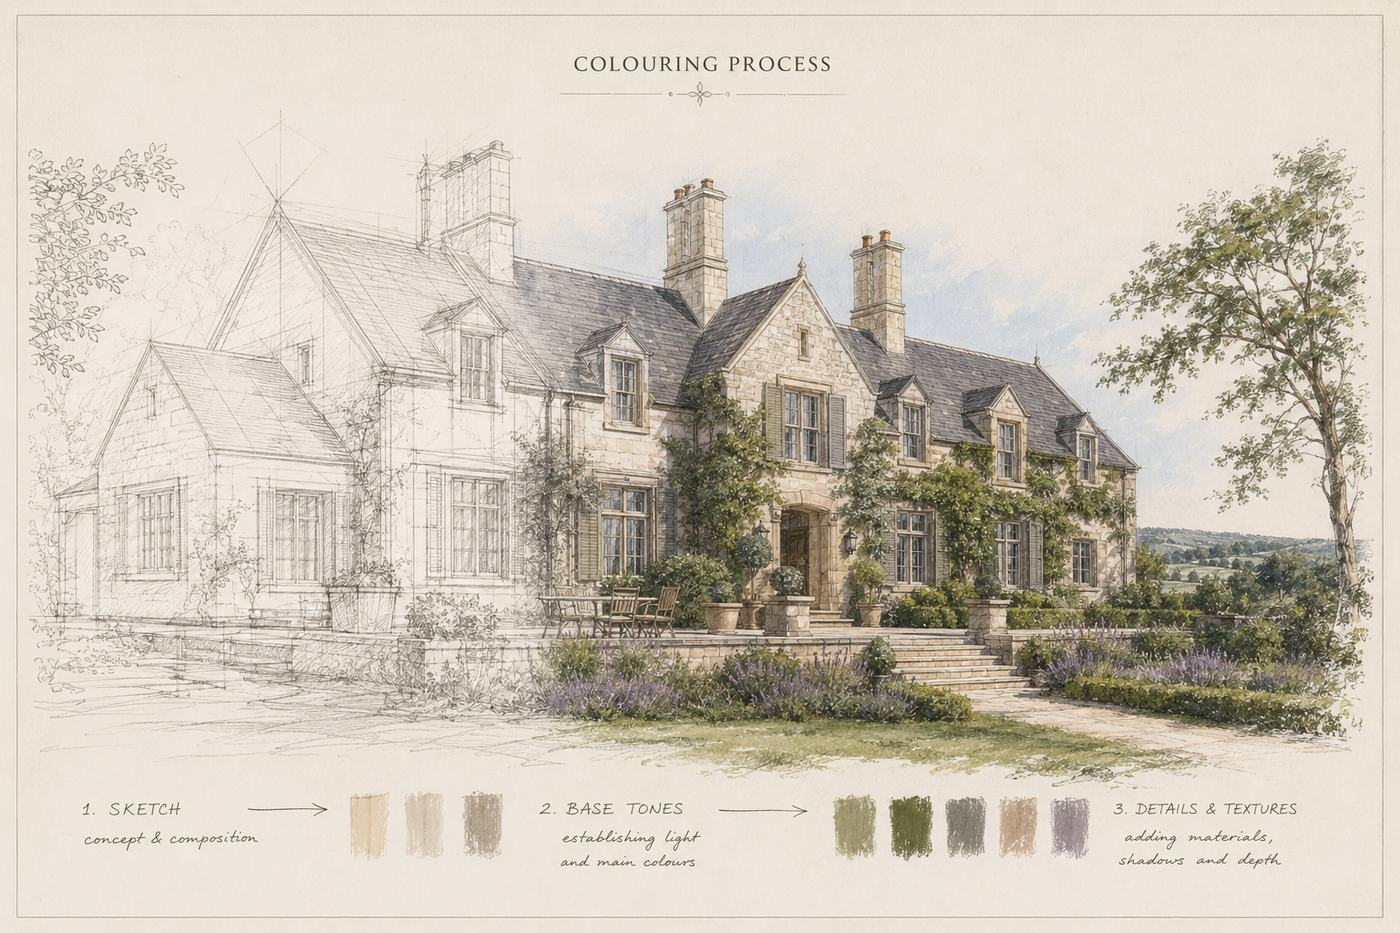
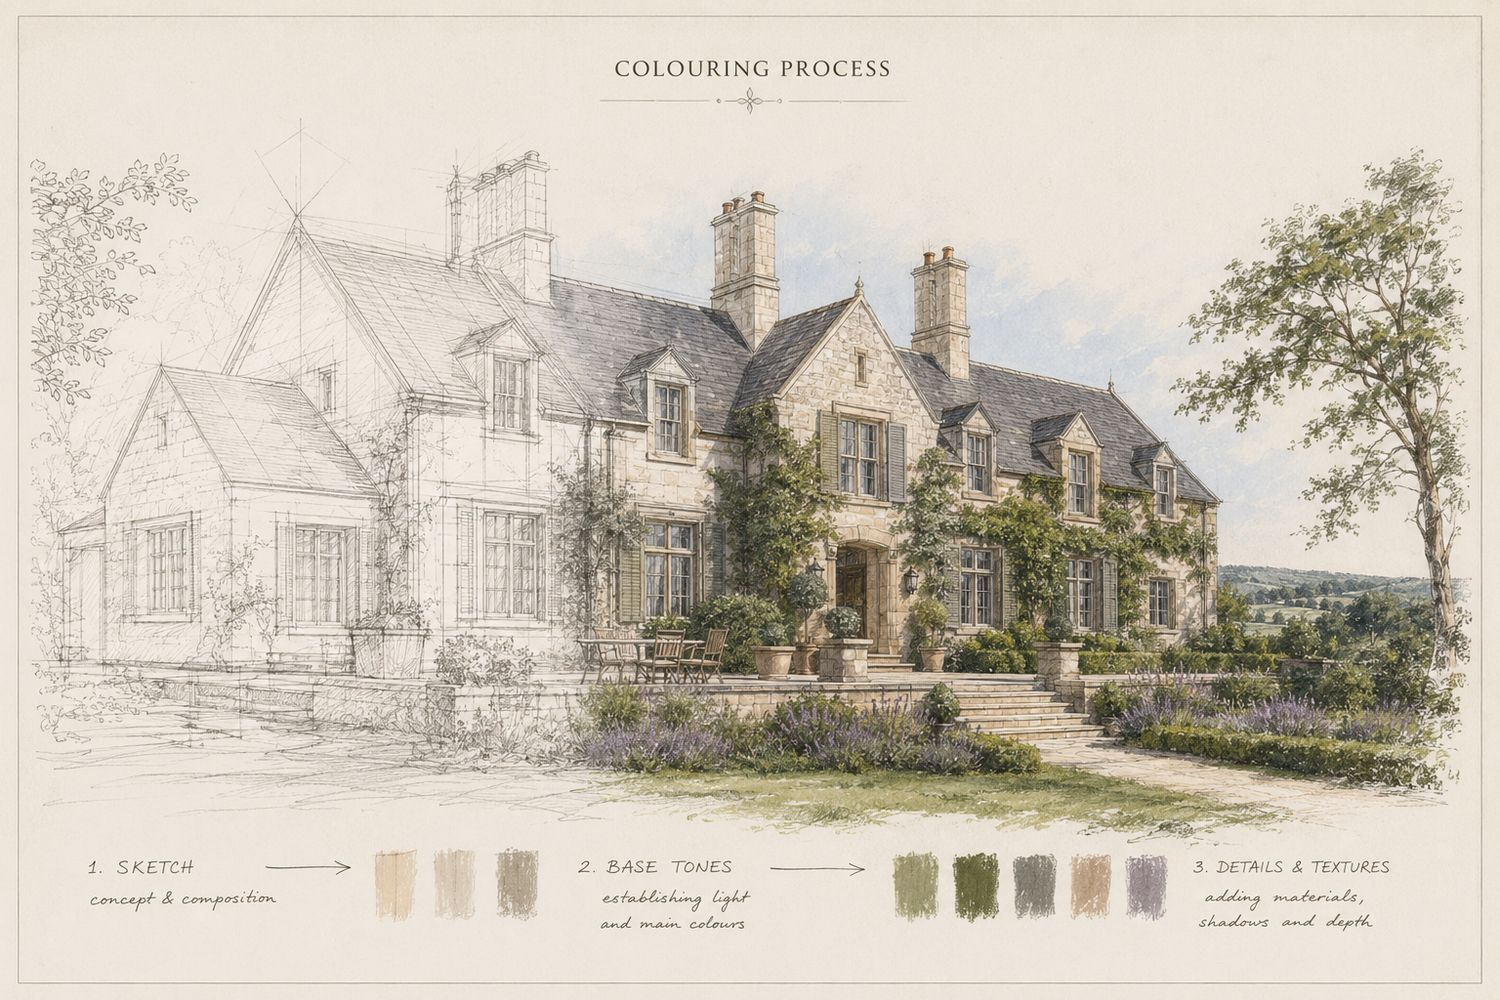
Add files via upload

diff --git a/styles.css b/styles.css
@@ -1,1 +1,1 @@
-:root{--emerald:#06261e;--emerald2:#0b3025;--gold:#c6a365;--gold2:#e4cc92;--cream:#efe7d8;--ink:#102119;--muted:rgba(239,231,216,.78)}*{box-sizing:border-box}html{scroll-behavior:smooth}body{margin:0;background:var(--emerald);color:var(--cream);font-family:Georgia,"Times New Roman",serif}a{color:inherit}.grain{position:fixed;inset:0;pointer-events:none;z-index:60;opacity:.055;background-image:radial-gradient(circle at 20% 30%,#fff 0 1px,transparent 1px);background-size:6px 6px;mix-blend-mode:soft-light}.symbol{width:18px;height:18px;color:var(--gold);display:inline-block;vertical-align:middle;flex:0 0 18px}.nav{position:fixed;top:0;left:0;right:0;z-index:50;display:flex;justify-content:space-between;align-items:center;padding:26px clamp(24px,4vw,64px);background:linear-gradient(to bottom,rgba(6,38,30,.96),rgba(6,38,30,.72),transparent)}.brand{display:flex;align-items:center;gap:16px;text-decoration:none;color:var(--gold2);letter-spacing:.31em;font-size:14px}.nav nav{display:flex;gap:28px}.nav nav a{color:rgba(239,231,216,.86);text-decoration:none;text-transform:uppercase;letter-spacing:.18em;font-size:12px}.hero{min-height:100vh;position:relative;overflow:hidden;display:flex;align-items:center;padding:155px clamp(28px,8vw,120px) 90px;background-image:linear-gradient(90deg,rgba(4,20,15,.94) 0%,rgba(6,38,30,.78) 45%,rgba(6,38,30,.38) 100%),radial-gradient(circle at 72% 38%,rgba(198,163,101,.20),transparent 28%),url('hero-estate.jpg');background-size:cover;background-position:center}.hero-copy{position:relative;z-index:2;max-width:900px}.eyebrow{color:var(--gold);text-transform:uppercase;letter-spacing:.38em;font-size:12px;margin-bottom:24px}.eyebrow.dark{color:#8b744a}h1,h2,h3,p{margin-top:0}h1{font-size:clamp(58px,9vw,128px);font-weight:400;line-height:.92;margin-bottom:28px}h2{font-size:clamp(38px,5.6vw,76px);font-weight:400;line-height:1.03;margin-bottom:22px}h3{font-size:clamp(26px,2.4vw,38px);font-weight:400;margin-bottom:14px}p{font-size:20px;line-height:1.75;color:var(--muted)}.hero p{font-size:23px;max-width:590px}.hero-actions{display:flex;gap:16px;flex-wrap:wrap;margin-top:34px}.button,button{display:inline-block;border:1px solid var(--gold);padding:16px 28px;text-decoration:none;color:var(--gold2);background:transparent;text-transform:uppercase;letter-spacing:.19em;font-size:12px;cursor:pointer}.button.primary,button:hover,.button:hover{background:rgba(198,163,101,.13)}.button.ghost{border-color:rgba(239,231,216,.48);color:var(--cream)}.philosophy{padding:110px clamp(28px,12vw,180px);background:var(--cream);color:var(--ink)}.philosophy h2,.philosophy p{color:var(--ink)}.philosophy p{font-size:clamp(27px,3.2vw,46px);line-height:1.38;max-width:1180px}.world{padding:120px clamp(28px,7vw,110px);background:#08271f}.section-heading{max-width:900px;margin-bottom:58px}.world-grid{display:grid;grid-template-columns:1.1fr .9fr;gap:24px}.card{position:relative;overflow:hidden;min-height:510px;background:#041d17}.card.large{grid-row:span 2;min-height:760px}.card.wide{min-height:360px}.card img{position:absolute;inset:0;width:100%;height:100%;object-fit:cover;filter:saturate(.9) contrast(.97)}.card:after{content:"";position:absolute;inset:0;background:linear-gradient(to top,rgba(0,0,0,.76),rgba(0,0,0,.08) 65%)}.card .copy{position:absolute;z-index:2;left:34px;right:34px;bottom:30px}.card span,.collection-list span{color:var(--gold);letter-spacing:.3em;font-size:12px}.card p{font-size:17px;max-width:360px}.materials{display:grid;grid-template-columns:38% 62%;min-height:760px;border-top:1px solid rgba(198,163,101,.28);border-bottom:1px solid rgba(198,163,101,.28)}.materials-copy{padding:90px 56px;background:#041d17;display:flex;flex-direction:column;justify-content:center;border-right:1px solid rgba(198,163,101,.28)}.lockup{display:grid;grid-template-columns:1fr auto 1fr;align-items:center;gap:18px;margin-bottom:45px;color:var(--gold)}.lockup:before,.lockup:after{content:"";height:1px;background:var(--gold);opacity:.9}.lockup .symbol{width:20px;height:20px;flex-basis:20px}.material-visual img{width:100%;height:100%;object-fit:cover;display:block}.details{display:grid;grid-template-columns:repeat(3,1fr);background:var(--cream);color:var(--ink)}.detail{padding:28px;border-right:1px solid rgba(16,33,25,.16)}.detail:last-child{border-right:0}.detail img{width:100%;height:380px;object-fit:cover;margin-bottom:28px;filter:saturate(.9)}.detail h3,.detail p{color:var(--ink)}.detail p{font-size:17px}.collections{padding:120px clamp(28px,7vw,110px);background:linear-gradient(135deg,#06261e,#0f372b)}.collection-list{display:grid;grid-template-columns:repeat(4,1fr);border-top:1px solid rgba(198,163,101,.28);border-left:1px solid rgba(198,163,101,.28)}.collection-list div{padding:42px 30px;min-height:270px;border-right:1px solid rgba(198,163,101,.28)}.collection-list b{display:block;margin:72px 0 15px;font-size:24px;font-weight:400;color:var(--cream)}.collection-list p{font-size:16px}.founder{display:grid;grid-template-columns:1fr 1fr;background:var(--cream);color:var(--ink)}.founder img{width:100%;height:100%;min-height:620px;object-fit:cover}.founder-copy{padding:100px clamp(34px,7vw,110px);align-self:center}.founder-copy h2,.founder-copy p{color:var(--ink)}.journal{display:grid;grid-template-columns:1fr 1fr;gap:80px;align-items:end;padding:120px clamp(28px,8vw,120px);background:#041d17}.journal form{display:flex;gap:14px;border-bottom:1px solid rgba(198,163,101,.55);padding-bottom:10px}input{flex:1;background:transparent;border:0;color:var(--cream);font:20px Georgia,"Times New Roman",serif;padding:14px 0;outline:none}input::placeholder{color:rgba(239,231,216,.45)}.journal button{margin:0}.contact{display:flex;align-items:center;justify-content:space-between;gap:40px;padding:95px clamp(28px,8vw,120px);background:var(--emerald2)}footer{display:flex;justify-content:space-between;gap:30px;align-items:center;padding:42px clamp(28px,4vw,64px);border-top:1px solid rgba(198,163,101,.28);color:var(--gold);text-transform:uppercase;letter-spacing:.22em;font-size:12px}footer strong{font-weight:400;font-size:18px;letter-spacing:.3em;margin-right:16px}.footer-brand{display:flex;align-items:center;gap:16px}.footer-links{display:flex;gap:24px}.footer-links a{color:var(--gold);text-decoration:none}@media(max-width:980px){.nav nav{display:none}.world-grid,.materials,.founder,.journal{grid-template-columns:1fr}.card.large{min-height:560px}.materials-copy{border-right:0}.details,.collection-list{grid-template-columns:1fr 1fr}}@media(max-width:640px){.nav{padding:22px 24px}.brand{font-size:13px}.hero{padding:135px 26px 70px}.world,.collections,.journal,.contact{padding:80px 26px}.philosophy{padding:78px 26px}.world-grid,.details,.collection-list{grid-template-columns:1fr}.card,.card.large,.card.wide{min-height:440px}.detail{border-right:0;border-bottom:1px solid rgba(16,33,25,.16)}.journal form{display:block}.journal button{margin-top:22px;width:100%}.contact{display:block}footer{display:block;line-height:2.2}.footer-links{display:block}}
+:root{--emerald:#06261e;--emerald2:#0a3025;--gold:#c6a365;--gold2:#e4cc92;--cream:#efe7d8;--ink:#102119;--muted:rgba(239,231,216,.78)}*{box-sizing:border-box}html{scroll-behavior:smooth}body{margin:0;background:var(--emerald);color:var(--cream);font-family:Georgia,"Times New Roman",serif}a{color:inherit}.symbol{width:18px;height:18px;color:var(--gold);display:inline-block;vertical-align:middle;flex:0 0 18px}.nav{position:fixed;top:0;left:0;right:0;z-index:50;display:flex;justify-content:space-between;align-items:center;padding:26px clamp(24px,4vw,64px);background:linear-gradient(to bottom,rgba(6,38,30,.96),rgba(6,38,30,.72),transparent)}.brand{display:flex;align-items:center;gap:16px;text-decoration:none;color:var(--gold2);letter-spacing:.31em;font-size:14px}.nav nav{display:flex;gap:28px}.nav nav a{color:rgba(239,231,216,.86);text-decoration:none;text-transform:uppercase;letter-spacing:.18em;font-size:12px}.hero{min-height:100vh;position:relative;display:flex;align-items:center;padding:155px clamp(28px,8vw,120px) 90px;background-image:linear-gradient(90deg,rgba(4,20,15,.88) 0%,rgba(6,38,30,.68) 36%,rgba(6,38,30,.20) 68%,rgba(6,38,30,.06) 100%),url('hero-estate.jpg');background-size:cover;background-position:center;background-repeat:no-repeat}.hero-copy{max-width:820px;position:relative;z-index:2}.eyebrow{color:var(--gold);text-transform:uppercase;letter-spacing:.38em;font-size:12px;margin-bottom:24px}.eyebrow.dark{color:#8b744a}h1,h2,h3,p{margin-top:0}h1{font-size:clamp(54px,8vw,116px);font-weight:400;line-height:.94;margin-bottom:28px}h2{font-size:clamp(38px,5.4vw,72px);font-weight:400;line-height:1.04;margin-bottom:22px}h3{font-size:clamp(25px,2.2vw,36px);font-weight:400;margin-bottom:14px}p{font-size:20px;line-height:1.75;color:var(--muted)}.hero p{font-size:23px;max-width:560px}.hero-actions{display:flex;gap:16px;flex-wrap:wrap;margin-top:34px}.button,button{display:inline-block;border:1px solid var(--gold);padding:16px 28px;text-decoration:none;color:var(--gold2);background:transparent;text-transform:uppercase;letter-spacing:.19em;font-size:12px;cursor:pointer}.button.primary,button:hover,.button:hover{background:rgba(198,163,101,.13)}.button.ghost{border-color:rgba(239,231,216,.48);color:var(--cream)}.philosophy{padding:110px clamp(28px,12vw,180px);background:var(--cream);color:var(--ink)}.philosophy h2,.philosophy p{color:var(--ink)}.philosophy p{font-size:clamp(27px,3.2vw,46px);line-height:1.38;max-width:1180px}.world{padding:120px clamp(28px,7vw,110px);background:#08271f}.section-title{max-width:900px;margin-bottom:58px}.world-grid{display:grid;grid-template-columns:1.2fr .9fr .9fr;gap:24px}.world-card{position:relative;overflow:hidden;min-height:560px;background:#041d17}.world-card.large{min-height:680px}.world-card img{position:absolute;inset:0;width:100%;height:100%;object-fit:cover;filter:saturate(.9) contrast(.97)}.world-card:after{content:"";position:absolute;inset:0;background:linear-gradient(to top,rgba(0,0,0,.76),rgba(0,0,0,.08) 65%)}.card-copy{position:absolute;z-index:2;left:34px;right:34px;bottom:30px}.world-card span,.collection-grid span{color:var(--gold);letter-spacing:.3em;font-size:12px}.world-card p{font-size:17px;max-width:360px}.materials{display:grid;grid-template-columns:38% 62%;min-height:720px;border-top:1px solid rgba(198,163,101,.28);border-bottom:1px solid rgba(198,163,101,.28)}.materials-copy{padding:90px 56px;background:#041d17;display:flex;flex-direction:column;justify-content:center;border-right:1px solid rgba(198,163,101,.28)}.lockup{display:grid;grid-template-columns:1fr auto 1fr;align-items:center;gap:18px;margin-bottom:45px;color:var(--gold)}.lockup:before,.lockup:after{content:"";height:1px;background:var(--gold);opacity:.9}.lockup .symbol{width:20px;height:20px;flex-basis:20px}.material-visual img{width:100%;height:100%;object-fit:cover;display:block}.details{display:grid;grid-template-columns:repeat(3,1fr);background:var(--cream);color:var(--ink)}.details article{padding:28px;border-right:1px solid rgba(16,33,25,.16)}.details article:last-child{border-right:0}.details img{width:100%;height:380px;object-fit:cover;margin-bottom:28px;filter:saturate(.9)}.details h3,.details p{color:var(--ink)}.details p{font-size:17px}.collections{padding:120px clamp(28px,7vw,110px);background:linear-gradient(135deg,#06261e,#0f372b)}.collection-grid{display:grid;grid-template-columns:repeat(4,1fr);border-top:1px solid rgba(198,163,101,.28);border-left:1px solid rgba(198,163,101,.28)}.collection-grid div{padding:42px 30px;min-height:270px;border-right:1px solid rgba(198,163,101,.28)}.collection-grid h3{font-size:24px;margin-top:72px}.collection-grid p{font-size:16px}.founder{display:grid;grid-template-columns:1fr 1fr;background:var(--cream);color:var(--ink)}.founder img{width:100%;height:100%;min-height:620px;object-fit:cover}.founder-copy{padding:100px clamp(34px,7vw,110px);align-self:center}.founder-copy h2,.founder-copy p{color:var(--ink)}.journal{display:grid;grid-template-columns:1fr 1fr;gap:80px;align-items:end;padding:120px clamp(28px,8vw,120px);background:#041d17}.journal form{display:flex;gap:14px;border-bottom:1px solid rgba(198,163,101,.55);padding-bottom:10px}input{flex:1;background:transparent;border:0;color:var(--cream);font:20px Georgia,"Times New Roman",serif;padding:14px 0;outline:none}input::placeholder{color:rgba(239,231,216,.45)}.journal button{margin:0}.contact{display:flex;align-items:center;justify-content:space-between;gap:40px;padding:95px clamp(28px,8vw,120px);background:var(--emerald2)}.contact div{max-width:820px}footer{display:flex;justify-content:space-between;gap:30px;align-items:center;padding:42px clamp(28px,4vw,64px);border-top:1px solid rgba(198,163,101,.28);color:var(--gold);text-transform:uppercase;letter-spacing:.22em;font-size:12px}.footer-brand{display:flex;align-items:center;gap:16px}footer strong{font-weight:400;font-size:18px;letter-spacing:.3em}.footer-links{display:flex;gap:24px}.footer-links a{color:var(--gold);text-decoration:none}@media(max-width:980px){.nav nav{display:none}.world-grid,.materials,.founder,.journal{grid-template-columns:1fr}.materials-copy{border-right:0}.details,.collection-grid{grid-template-columns:1fr 1fr}.world-card.large,.world-card{min-height:500px}}@media(max-width:640px){.nav{padding:22px 24px}.brand{font-size:13px}.hero{padding:135px 26px 70px;background-position:center}.world,.collections,.journal,.contact{padding:80px 26px}.philosophy{padding:78px 26px}.world-grid,.details,.collection-grid{grid-template-columns:1fr}.world-card,.world-card.large{min-height:430px}.details article{border-right:0;border-bottom:1px solid rgba(16,33,25,.16)}.journal form{display:block}.journal button{margin-top:22px;width:100%}.contact{display:block}footer{display:block;line-height:2.2}.footer-links{display:block}}

diff --git a/index.html b/index.html
@@ -1,22 +1,27 @@
 <!doctype html>
 <html lang="en">
 <head>
-  <meta charset="utf-8"><meta name="viewport" content="width=device-width, initial-scale=1">
+  <meta charset="utf-8" />
+  <meta name="viewport" content="width=device-width, initial-scale=1" />
   <title>Floramere Living</title>
-  <meta name="description" content="Floramere Living is a luxury lifestyle house shaped by heritage, gardens, materials and understated country living.">
-  <meta name="theme-color" content="#06261e">
-  <link rel="icon" href="favicon.svg" type="image/svg+xml">
-  <link rel="stylesheet" href="styles.css">
+  <meta name="description" content="Floramere Living is a luxury lifestyle house shaped by heritage, gardens, materials and quiet country living." />
+  <meta name="theme-color" content="#06261e" />
+  <link rel="icon" href="favicon.svg" type="image/svg+xml" />
+  <link rel="stylesheet" href="styles.css" />
 </head>
 <body>
-<div class="grain"></div>
-
 <header class="nav">
   <a class="brand" href="#top" aria-label="Floramere Home">
     <svg class="symbol" viewBox="0 0 64 64" aria-hidden="true"><g fill="currentColor"><ellipse cx="32" cy="14" rx="5.2" ry="12.5"/><ellipse cx="32" cy="50" rx="5.2" ry="12.5"/><ellipse cx="14" cy="32" rx="12.5" ry="5.2"/><ellipse cx="50" cy="32" rx="12.5" ry="5.2"/></g></svg>
     <span>FLORAMERE</span>
   </a>
-  <nav><a href="#world">World</a><a href="#materials">Materials</a><a href="#collections">Collections</a><a href="#journal">Journal</a><a href="#contact">Contact</a></nav>
+  <nav>
+    <a href="#world">World</a>
+    <a href="#materials">Materials</a>
+    <a href="#collections">Collections</a>
+    <a href="#journal">Journal</a>
+    <a href="#contact">Contact</a>
+  </nav>
 </header>
 
 <main id="top">
@@ -25,7 +30,10 @@
       <div class="eyebrow">Floramere Living</div>
       <h1>Timeless places,<br>rooted in heritage.</h1>
       <p>A world of estates, gardens, materials and curated luxury living.</p>
-      <div class="hero-actions"><a class="button primary" href="#world">Enter Floramere</a><a class="button ghost" href="#journal">Join the Journal</a></div>
+      <div class="hero-actions">
+        <a class="button primary" href="#world">Enter Floramere</a>
+        <a class="button ghost" href="#journal">Join the Journal</a>
+      </div>
     </div>
   </section>
 
@@ -36,49 +44,73 @@
   </section>
 
   <section class="world" id="world">
-    <div class="section-heading"><div class="eyebrow">The World of Floramere</div><h2>Estates. Gardens. Materials. Country life.</h2></div>
+    <div class="section-title">
+      <div class="eyebrow">The World of Floramere</div>
+      <h2>Estates. Gardens. Materials. Country life.</h2>
+    </div>
     <div class="world-grid">
-      <article class="card large"><img src="hero-estate.jpg" alt="Grand country estate"><div class="copy"><span>01</span><h3>Estates</h3><p>Timeless architecture and heritage-inspired living.</p></div></article>
-      <article class="card"><img src="garden.jpg" alt="Heritage garden atmosphere"><div class="copy"><span>02</span><h3>Gardens</h3><p>Lavender paths, formal greens and quiet outdoor rituals.</p></div></article>
-      <article class="card"><img src="materials.jpg" alt="Material palette"><div class="copy"><span>03</span><h3>Materials</h3><p>Oak, stone, brass and the poetry of patina.</p></div></article>
-      <article class="card wide"><img src="hero-estate.jpg" alt="Country house atmosphere"><div class="copy"><span>04</span><h3>Country Life</h3><p>Equestrian heritage, vineyards, retreats and slower luxury.</p></div></article>
+      <article class="world-card large">
+        <img src="hero-estate.jpg" alt="Floramere country estate" />
+        <div class="card-copy"><span>01</span><h3>Estates</h3><p>Timeless architecture and heritage-inspired living.</p></div>
+      </article>
+      <article class="world-card">
+        <img src="garden.jpg" alt="Heritage garden" />
+        <div class="card-copy"><span>02</span><h3>Gardens</h3><p>Lavender paths, formal greens and quiet outdoor rituals.</p></div>
+      </article>
+      <article class="world-card">
+        <img src="materials.jpg" alt="Material palette" />
+        <div class="card-copy"><span>03</span><h3>Materials</h3><p>Oak, stone, brass and the poetry of patina.</p></div>
+      </article>
     </div>
   </section>
 
   <section class="materials" id="materials">
     <div class="materials-copy">
-      <div class="lockup"><svg class="symbol" viewBox="0 0 64 64" aria-hidden="true"><g fill="currentColor"><ellipse cx="32" cy="14" rx="5.2" ry="12.5"/><ellipse cx="32" cy="50" rx="5.2" ry="12.5"/><ellipse cx="14" cy="32" rx="12.5" ry="5.2"/><ellipse cx="50" cy="32" rx="12.5" ry="5.2"/></g></svg></div>
+      <div class="lockup">
+        <svg class="symbol" viewBox="0 0 64 64" aria-hidden="true"><g fill="currentColor"><ellipse cx="32" cy="14" rx="5.2" ry="12.5"/><ellipse cx="32" cy="50" rx="5.2" ry="12.5"/><ellipse cx="14" cy="32" rx="12.5" ry="5.2"/><ellipse cx="50" cy="32" rx="12.5" ry="5.2"/></g></svg>
+      </div>
       <div class="eyebrow">Material Language</div>
       <h2>Luxury is rarely about scale.</h2>
       <p>It is about materials, proportion and restraint.</p>
     </div>
-    <div class="material-visual"><img src="materials.jpg" alt="Floramere material palette"></div>
+    <div class="material-visual"><img src="materials.jpg" alt="Floramere material palette" /></div>
   </section>
 
   <section class="details">
-    <div class="detail"><img src="materials.jpg" alt="Entrance and material details"><h3>Entrance details</h3><p>Solid wood, restrained glass, brass hardware and the ceremony of arrival.</p></div>
-    <div class="detail"><img src="garden.jpg" alt="Heritage garden"><h3>Heritage gardens</h3><p>Lavender, aged stone, quiet benches and the ritual of slower living.</p></div>
-    <div class="detail"><img src="sketch.jpg" alt="Floramere sketch process"><h3>Concept sketches</h3><p>The first gesture of a place before it becomes atmosphere.</p></div>
+    <article><img src="materials.jpg" alt="Floramere materials" /><h3>Entrance details</h3><p>Solid wood, restrained glass, brass hardware and the ceremony of arrival.</p></article>
+    <article><img src="garden.jpg" alt="English garden" /><h3>Garden rituals</h3><p>Lavender, aged stone, quiet benches and the ritual of slower living.</p></article>
+    <article><img src="sketch.jpg" alt="Sketch concept" /><h3>Concept sketches</h3><p>The first gesture of a place before it becomes atmosphere.</p></article>
   </section>
 
   <section class="collections" id="collections">
-    <div class="section-heading"><div class="eyebrow">Future Collections</div><h2>Objects and pieces for a life well lived.</h2><p>Floramere will evolve into curated lifestyle objects, apparel and signature accessories rooted in timeless design.</p></div>
-    <div class="collection-list">
-      <div><span>01</span><b>Apparel</b><p>Pullovers, caps and understated country pieces.</p></div>
-      <div><span>02</span><b>Accessories</b><p>Refined daily objects with heritage character.</p></div>
-      <div><span>03</span><b>Signature Lace System</b><p>A future luxury detail for shoes, boots and personal style.</p></div>
-      <div><span>04</span><b>Home Objects</b><p>Materials, textures and objects shaped by the Floramere world.</p></div>
+    <div class="section-title">
+      <div class="eyebrow">Future Collections</div>
+      <h2>Objects and pieces for a life well lived.</h2>
+      <p>Floramere will evolve into curated lifestyle objects, apparel and signature accessories rooted in timeless design.</p>
+    </div>
+    <div class="collection-grid">
+      <div><span>01</span><h3>Apparel</h3><p>Pullovers, caps and understated country pieces.</p></div>
+      <div><span>02</span><h3>Accessories</h3><p>Refined daily objects with heritage character.</p></div>
+      <div><span>03</span><h3>Signature Lace System</h3><p>A future luxury detail for shoes, boots and personal style.</p></div>
+      <div><span>04</span><h3>Home Objects</h3><p>Materials, textures and objects shaped by the Floramere world.</p></div>
     </div>
   </section>
 
   <section class="founder">
-    <img src="sketch.jpg" alt="Floramere concept sketch">
-    <div class="founder-copy"><div class="eyebrow dark">Vision</div><h2>The Floramere vision.</h2><p>Floramere began with a fascination for timeless places and beautifully made things. A brand shaped by heritage aesthetics, material integrity and the belief that true luxury is never loud.</p></div>
+    <img src="sketch.jpg" alt="Floramere concept sketch" />
+    <div class="founder-copy">
+      <div class="eyebrow dark">Vision</div>
+      <h2>The Floramere vision.</h2>
+      <p>Floramere began with a fascination for timeless places and beautifully made things. A brand shaped by heritage aesthetics, material integrity and the belief that true luxury is never loud.</p>
+    </div>
   </section>
 
   <section class="journal" id="journal">
     <div><div class="eyebrow">Private Access</div><h2>Join the Floramere Journal.</h2><p>Early access to collections, private releases and the evolving world of Floramere.</p></div>
-    <form action="mailto:hello@floramere-living.com" method="post" enctype="text/plain"><input type="email" name="email" placeholder="Email address"><button type="submit">Join</button></form>
+    <form action="mailto:hello@floramere-living.com" method="post" enctype="text/plain">
+      <input type="email" name="email" placeholder="Email address" />
+      <button type="submit">Join</button>
+    </form>
   </section>
 
   <section class="contact" id="contact">
@@ -88,8 +120,16 @@
 </main>
 
 <footer>
-  <div class="footer-brand"><svg class="symbol" viewBox="0 0 64 64" aria-hidden="true"><g fill="currentColor"><ellipse cx="32" cy="14" rx="5.2" ry="12.5"/><ellipse cx="32" cy="50" rx="5.2" ry="12.5"/><ellipse cx="14" cy="32" rx="12.5" ry="5.2"/><ellipse cx="50" cy="32" rx="12.5" ry="5.2"/></g></svg><strong>FLORAMERE</strong><span>Living</span></div>
-  <div class="footer-links"><a href="https://floramere-living.com">Website</a><a href="#">Instagram</a><a href="#">Pinterest</a><a href="mailto:hello@floramere-living.com">Contact</a></div>
+  <div class="footer-brand">
+    <svg class="symbol" viewBox="0 0 64 64" aria-hidden="true"><g fill="currentColor"><ellipse cx="32" cy="14" rx="5.2" ry="12.5"/><ellipse cx="32" cy="50" rx="5.2" ry="12.5"/><ellipse cx="14" cy="32" rx="12.5" ry="5.2"/><ellipse cx="50" cy="32" rx="12.5" ry="5.2"/></g></svg>
+    <strong>FLORAMERE</strong><span>Living</span>
+  </div>
+  <div class="footer-links">
+    <a href="https://floramere-living.com">Website</a>
+    <a href="#">Instagram</a>
+    <a href="#">Pinterest</a>
+    <a href="mailto:hello@floramere-living.com">Contact</a>
+  </div>
 </footer>
 </body>
 </html>
